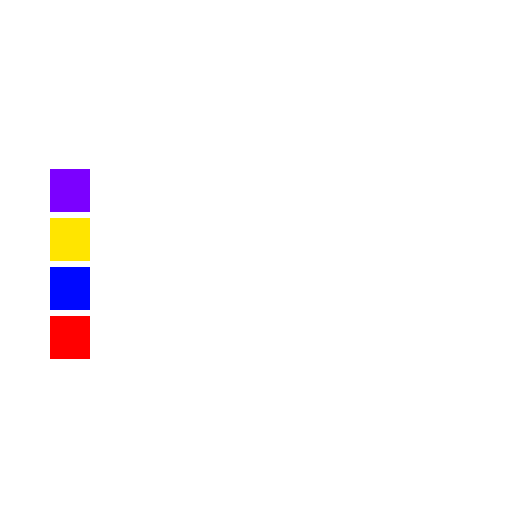
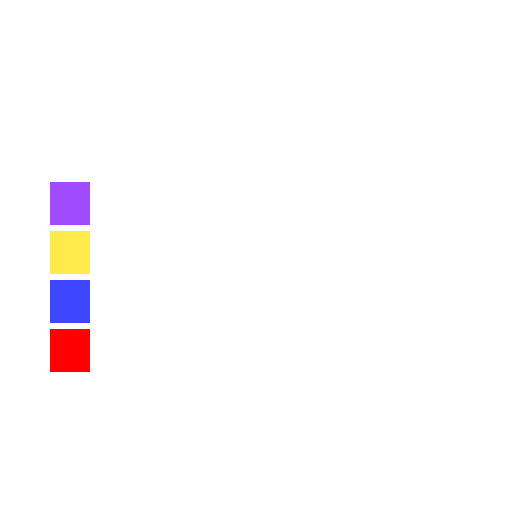
YIPPPEEEE

Changed region(s): [[0.0938, 0.3125, 0.1875, 0.6562], [0.0938, 0.6875, 0.1875, 0.75]]

diff --git a/IMGD2900/resources/dev9/game.js b/IMGD2900/resources/dev9/game.js
@@ -63,9 +63,29 @@ const MAP1 = [
 	[1, 1, 1, 1, 1, 1, 1, 0, 0, 0, 1, 0, 0, 0, 0, 0],
 	[1, 1, 1, 1, 1, 1, 1, 1, 1, 1, 1, 1, 1, 1, 1, 1],
 	[1, 1, 1, 1, 1, 1, 1, 1, 1, 1, 1, 1, 1, 1, 1, 1]
-]
+];
+
+const MAP2 = [
+	[1, 1, 1, 1, 1, 1, 1, 1, 1, 1, 1, 1, 1, 1, 1, 1],
+	[1, 1, 1, 1, 1, 1, 1, 1, 1, 1, 1, 1, 1, 1, 1, 1],
+	[1, 1, 1, 1, 1, 0, 0, 0, 0, 0, 1, 1, 1, 1, 1, 1],
+	[1, 1, 1, 1, 0, 0, 0, 0, 0, 0, 0, 0, 0, 0, 1, 1],
+	[0, 0, 0, 0, 0, 0, 0, 0, 0, 0, 0, 0, 20, 0, 0, 0],
+	[0, 10, 0, 0, 0, 0, 0, 0, 0, 0, 0, 0, 0, 0, 0, 0],
+	[0, 0, 0, 0, 0, 0, 0, 0, 0, 0, 0, 0, 0, 0, 0, 0],
+	[0, 0, 0, 0, 0, 0, 0, 0, 0, 0, 0, 0, 0, 0, 0, 0],
+	[0, 0, 0, 0, 0, 0, 0, 0, 0, 0, 0, 0, 20, 0, 0, 0],
+	[0, 0, 0, 0, 0, 0, 0, 0, 0, 0, 0, 0, 0, 0, 0, 0],
+	[0, 0, 0, 0, 0, 0, 0, 0, 0, 0, 0, 0, 0, 0, 0, 0],
+	[0, 0, 0, 0, 0, 0, 0, 0, 0, 0, 0, 0, 0, 0, 20, 0],
+	[1, 1, 1, 1, 1, 0, 0, 0, 0, 0, 0, 0, 0, 0, 0, 0],
+	[1, 1, 1, 1, 1, 1, 1, 0, 0, 0, 1, 0, 0, 0, 0, 0],
+	[1, 1, 1, 1, 1, 1, 1, 1, 1, 1, 1, 1, 1, 1, 1, 1],
+	[1, 1, 1, 1, 1, 1, 1, 1, 1, 1, 1, 1, 1, 1, 1, 1]
+];
 
 let board = MAP1;
+let winner = 0;
 
 function generateFireLocs() {
 	let locarr= [];
@@ -89,6 +109,8 @@ function generateFireLocs() {
 */
 let gameState = 0;
 
+let level = 1;
+
 let tanks = [];
 let selected = null;
 
@@ -99,8 +121,15 @@ let click = null;
 let move = null;
 let blast = null;
 
-//SPRITES
-// let tankSprites = [];
+//EMOJIS
+// for some reason, pasting the emojis into my code doesn't work so I have to use the raw unicode values lmao
+const TANK_SYMBOL = parseInt("1f681", 16);
+const BLAST_SYMBOL = parseInt("1f4a5", 16);
+
+//COLORS
+const MY_YELLOW = PS.makeRGB(255, 255, 76);
+const MY_PURPLE = PS.makeRGB(162, 76, 255);
+const MY_BLUE = PS.makeRGB(63, 63, 255);
 
 /*
 PS.init( system, options )
@@ -137,55 +166,12 @@ PS.init = function( system, options ) {
 	// Uncomment the following code line and
 	// change the string parameter as needed.
 
-	PS.statusText( "Your Turn - Select Tank" );
+	PS.statusText( "Your Turn - Select Helicopter" );
 	PS.statusColor(PS.COLOR_WHITE);
 
 	PS.gridColor(PS.COLOR_GRAY_DARK);
 
-	let currID = 0;
-
-	for (let i = 0; i < 16; i++) {
-		for (let j = 0; j < 18; j++) {
-			PS.color(i, j, PS.COLOR_GRAY_DARK);
-			let border = PS.border(i, j, 0);
-			if (i == 0 && j <= 15) {
-				border.left = 2;
-			} else if (i == 15 && j <= 15) {
-				border.right = 2;
-			}
-
-			if (j == 0) {
-				border.top = 2;
-			} else if (j == 15) {
-				border.bottom = 2;
-			}
-
-			PS.border(i, j, border);
-			PS.borderColor(i, j, PS.COLOR_WHITE);
-
-			if (j <= 15) {
-				const space = board[j][i];
-				if (space == 1) {
-					PS.color(i, j, PS.COLOR_BLUE);
-				}
-				if (space == 10) {
-					PS.color(i, j, PS.COLOR_VIOLET);
-					PS.glyph(i, j, "☔");
-					tanks.push({x: i, y: j, owner: 1, id: currID});
-					// tankSprites.push(null);
-					currID++;
-				}
-				if (space == 20) {
-					PS.color(i, j, PS.COLOR_YELLOW);
-					PS.glyph(i, j, '☔');
-					tanks.push({x: i, y: j, owner: 2, id: currID});
-					// tankSprites.push(null);
-					currID++;
-				}
-			}
-		}
-	}
-
+	loadBoard();
 	// PS.imageLoad('sprites/tank-y.png', (image) => {
 	// 	for (let i = 0; i < tanks.length; i++) {
 	// 		if (tanks[i].owner == 1) {
@@ -241,6 +227,59 @@ PS.init = function( system, options ) {
 	// Add any other initialization code you need here.
 	
 };
+
+function loadBoard() {
+	tanks = [];
+	let currID = 0;
+
+	for (let i = 0; i < 16; i++) {
+		for (let j = 0; j < 18; j++) {
+			PS.color(i, j, PS.COLOR_GRAY_DARK);
+			PS.glyph(i, j, '');
+			let border = PS.border(i, j, 0);
+			if (i == 0 && j <= 15) {
+				border.left = 2;
+			} else if (i == 15 && j <= 15) {
+				border.right = 2;
+			}
+
+			if (j == 0) {
+				border.top = 2;
+			} else if (j == 15) {
+				border.bottom = 2;
+			}
+
+			PS.border(i, j, border);
+			PS.borderColor(i, j, PS.COLOR_WHITE);
+
+			if (j <= 15) {
+				const space = board[j][i];
+				if (space == 1) {
+					PS.color(i, j, MY_BLUE);
+				}
+				if (space == 2) {
+					PS.color(i, j, PS.COLOR_RED);
+					PS.glyph(i, j, BLAST_SYMBOL);
+				}
+				if (space == 10) {
+					PS.color(i, j, MY_PURPLE);
+					PS.glyph(i, j, TANK_SYMBOL);
+					tanks.push({x: i, y: j, owner: 1, id: currID});
+					// tankSprites.push(null);
+					currID++;
+				}
+				if (space == 20) {
+					PS.color(i, j, MY_YELLOW);
+					PS.glyph(i, j, TANK_SYMBOL);
+					tanks.push({x: i, y: j, owner: 2, id: currID});
+					// tankSprites.push(null);
+					currID++;
+				}
+			}
+			// PS.glyph(i, j, IDK.charAt((j*16)+i));
+		}	
+	}
+}
 
 function displayOptions() {
 	PS.color(1, 17, PS.COLOR_CYAN);
@@ -306,7 +345,16 @@ function hideMovement() {
 		const spotY = tankY + MOVELOCS[i][1];
 
 		if (spotX >= 0 && spotX <= 15 && spotY >= 0 && spotY <= 15) {
-			PS.glyph(spotX, spotY, '');
+			const spot = board[spotY][spotX];
+			if (spot == 2) {
+				PS.glyph(spotX, spotY, BLAST_SYMBOL);
+				PS.glyphColor(spotX, spotY, PS.COLOR_BLACK);
+			} else if (spot == 20 || spot == 10) {
+				PS.glyph(spotX, spotY, TANK_SYMBOL);
+				PS.glyphColor(spotX, spotY, PS.COLOR_BLACK);
+			} else {
+				PS.glyph(spotX, spotY, '');
+			}
 		}
 	}
 }
@@ -320,8 +368,8 @@ function moveTank(tank, x, y) {
 	tanks[tank.id].y = y;
 	board[y][x] = 10;
 
-	PS.color(x, y, PS.COLOR_VIOLET);
-	PS.glyph(x, y, "🚁");
+	PS.color(x, y, MY_PURPLE);
+	PS.glyph(x, y, TANK_SYMBOL);
 	PS.glyphColor(x, y, PS.COLOR_BLACK);
 }
 
@@ -357,7 +405,16 @@ function hideFire() {
 		const spotY = tankY + FIRELOCS[i][1];
 
 		if (spotX >= 0 && spotX <= 15 && spotY >= 0 && spotY <= 15) {
-			PS.glyph(spotX, spotY, '');
+				const spot = board[spotY][spotX];
+				if (spot == 2) {
+					PS.glyph(spotX, spotY, BLAST_SYMBOL);
+					PS.glyphColor(spotX, spotY, PS.COLOR_BLACK);
+				} else if (spot == 20 || spot == 10) {
+					PS.glyph(spotX, spotY, TANK_SYMBOL);
+					PS.glyphColor(spotX, spotY, PS.COLOR_BLACK);
+				} else {
+					PS.glyph(spotX, spotY, '');
+				}
 		}
 	}
 }
@@ -374,7 +431,7 @@ function fire(x, y) {
 
 	// PS.audioPlayChannel(blast);
 	PS.color(x, y, PS.COLOR_RED);
-	PS.glyph(x, y, "🔥");
+	PS.glyph(x, y, BLAST_SYMBOL);
 }
 
 function enemyTurn() {
@@ -481,12 +538,12 @@ function enemyMove(target) {
 	tanks[selected.id].x = bestSpot.x;
 	tanks[selected.id].y = bestSpot.y;
 
-	PS.color(bestSpot.x, bestSpot.y, PS.COLOR_YELLOW);
-	PS.glyph(bestSpot.x, bestSpot.y, "🚁");
+	PS.color(bestSpot.x, bestSpot.y, MY_YELLOW);
+	PS.glyph(bestSpot.x, bestSpot.y, TANK_SYMBOL);
 	PS.glyphColor(bestSpot.x, bestSpot.y, PS.COLOR_BLACK);
 	board[bestSpot.y][bestSpot.x] = 20;
 
-	PS.statusText("Your Turn - Select Tank");
+	PS.statusText("Your Turn - Select Helicopter");
 	gameState = 0;
 	selected = null;
 
@@ -499,7 +556,7 @@ function enemyFire(tank) {
 	tanks[tank.id] = null;
 	board[tank.y][tank.x] = 2;
 
-	PS.color(selected.x, selected.y, PS.COLOR_YELLOW);
+	PS.color(selected.x, selected.y, MY_YELLOW);
 	hideFire();
 
 	let playersLeft = false;
@@ -510,18 +567,20 @@ function enemyFire(tank) {
 	}
 
 	if (playersLeft) {
-		PS.statusText("Your Turn - Select Tank");
+		PS.statusText("Your Turn - Select Helicopter");
 		gameState = 0;
 	} else {
+		PS.statusText("Enemy Wins!!!");
+		winner = 2;
 		gameState = 5;
 	}
 
 	selected = null;
 	PS.audioPlayChannel(blast, {
 		onEnd: () => {
-			if (gameState == 5) {
+			if (winner == 2) {
 				PS.audioPlayChannel(wilhelm);
-				PS.statusText("Enemy Wins!!!");
+				winner = 3;
 			}
 		}
 	});
@@ -563,6 +622,7 @@ PS.touch = function( x, y, data, options ) {
 					selected = null;
 					enemyTurn();
 				}
+				break;
 			}
 		}
 
@@ -585,9 +645,9 @@ PS.touch = function( x, y, data, options ) {
 				PS.statusText("Choose where to fire to");
 				showFire();
 			} else {
-				PS.color(selected.x, selected.y, PS.COLOR_VIOLET);
+				PS.color(selected.x, selected.y, MY_PURPLE);
 			
-				PS.statusText("Your Turn - Select Tank");
+				PS.statusText("Your Turn - Select Helicopter");
 				hideOptions();
 				gameState = 0;
 				selected = null;
@@ -607,6 +667,7 @@ PS.touch = function( x, y, data, options ) {
 			
 
 			if (x == spotX && y == spotY && !(spotX < 0 || spotX > 15 || spotY < 0 || spotY > 15)) {
+				// PS.debug(`found spot at ${spotX}, ${spotY}\n`)
 				const spot = board[spotY][spotX];
 				if (spot == 0 || spot == 20 || spot == 10) {
 					clicked = true;
@@ -614,7 +675,7 @@ PS.touch = function( x, y, data, options ) {
 					fire(spotX, spotY);
 					PS.statusText("Your Turn - Select Tank");
 					hideOptions();
-					PS.color(tankX, tankY, PS.COLOR_VIOLET);
+					PS.color(tankX, tankY, MY_PURPLE);
 
 					let enemiesLeft = false;
 
@@ -630,18 +691,28 @@ PS.touch = function( x, y, data, options ) {
 						gameState = 4;
 						enemyTurn();
 					} else {
-						gameState = 5;
+						if (level == 1) {
+							gameState = 1;
+							board = MAP2;
+							loadBoard();
+							level = 2;
+						} else {
+							gameState = 5;
+							winner = 1;
+							PS.statusText("You win!!!!!");
+						}
 					}
 					PS.audioPlayChannel(blast, {
 						onEnd: () => {
-							if (gameState == 5) {
-								PS.statusText("You win!!!!!");
+							if (winner == 1) {
 								PS.audioPlayChannel(tada);
+								winner = 3;
 							}
-						}
+						},
 					})
 					
 				}
+				break;
 			}
 		}
 
@@ -662,9 +733,9 @@ PS.touch = function( x, y, data, options ) {
 				PS.statusText("Choose where to move to");
 				showMovement();
 			} else {
-				PS.color(selected.x, selected.y, PS.COLOR_VIOLET);
+				PS.color(selected.x, selected.y, MY_PURPLE);
 			
-				PS.statusText("Your Turn - Select Tank");
+				PS.statusText("Your Turn - Select Helicopter");
 				hideOptions();
 				gameState = 0;
 				selected = null;
@@ -726,7 +797,7 @@ PS.touch = function( x, y, data, options ) {
 			if (gameState == 1) {
 				PS.color(selected.x, selected.y, PS.COLOR_VIOLET);
 			}
-			PS.statusText("Your Turn - Select Tank");
+			PS.statusText("Your Turn - Select Helicopter");
 			hideOptions();
 			gameState = 0;
 			selected = null;

diff --git a/IMGD2900/index.html b/IMGD2900/index.html
@@ -34,7 +34,7 @@
             <p class="px-10 pb-20 text-center"><b>Dev4: Slide Puzzle</b> Get all the tiles in their right spot! <button class="bg-blue hover:bg-darkblue px-4 py-3 rounded-lg" onclick="navToPage('/IMGD2900/resources/dev4/game.html')">Game</button>    <button class="bg-blue hover:bg-darkblue px-4 py-3 rounded-lg" onclick="navToOtherSite('https\:\/\/forms.gle/iGxKhd5Wx7ECZwmz5')">Survey</button></p>
             <p class="px-10 pb-20 text-center"><b>Dev5: Slide Puzzle 2.0</b> Improving upon my slide puzzel from dev4. <button class="bg-blue hover:bg-darkblue px-4 py-3 rounded-lg" onclick="navToPage('/IMGD2900/resources/dev5/game.html')">Game</button></p>
             <p class="px-10 pb-20 text-center"><b>Dev7: Tank Game</b> A simple game where you control tanks! <button class="bg-blue hover:bg-darkblue px-4 py-3 rounded-lg" onclick="navToPage('/IMGD2900/resources/dev7/game.html')">Game</button> <button class="bg-blue hover:bg-darkblue px-4 py-3 rounded-lg" onclick="navToOtherSite('https\:\/\/forms.gle/VCG3XyWWwML3Ap5BA')">Survey</button></p>
-            <p class="px-10 pb-20 text-center"><b>Dev9: Tank Game 2.0</b> Final version of dev7! <button class="bg-blue hover:bg-darkblue px-4 py-3 rounded-lg" onclick="navToPage('/IMGD2900/resources/dev9/game.html')">Game</button></p>
+            <p class="px-10 pb-20 text-center"><b>Dev9: Helicopter Game</b> Final version of dev7! <button class="bg-blue hover:bg-darkblue px-4 py-3 rounded-lg" onclick="navToPage('/IMGD2900/resources/dev9/game.html')">Game</button></p>
         </main>
     </body>
 </html>
